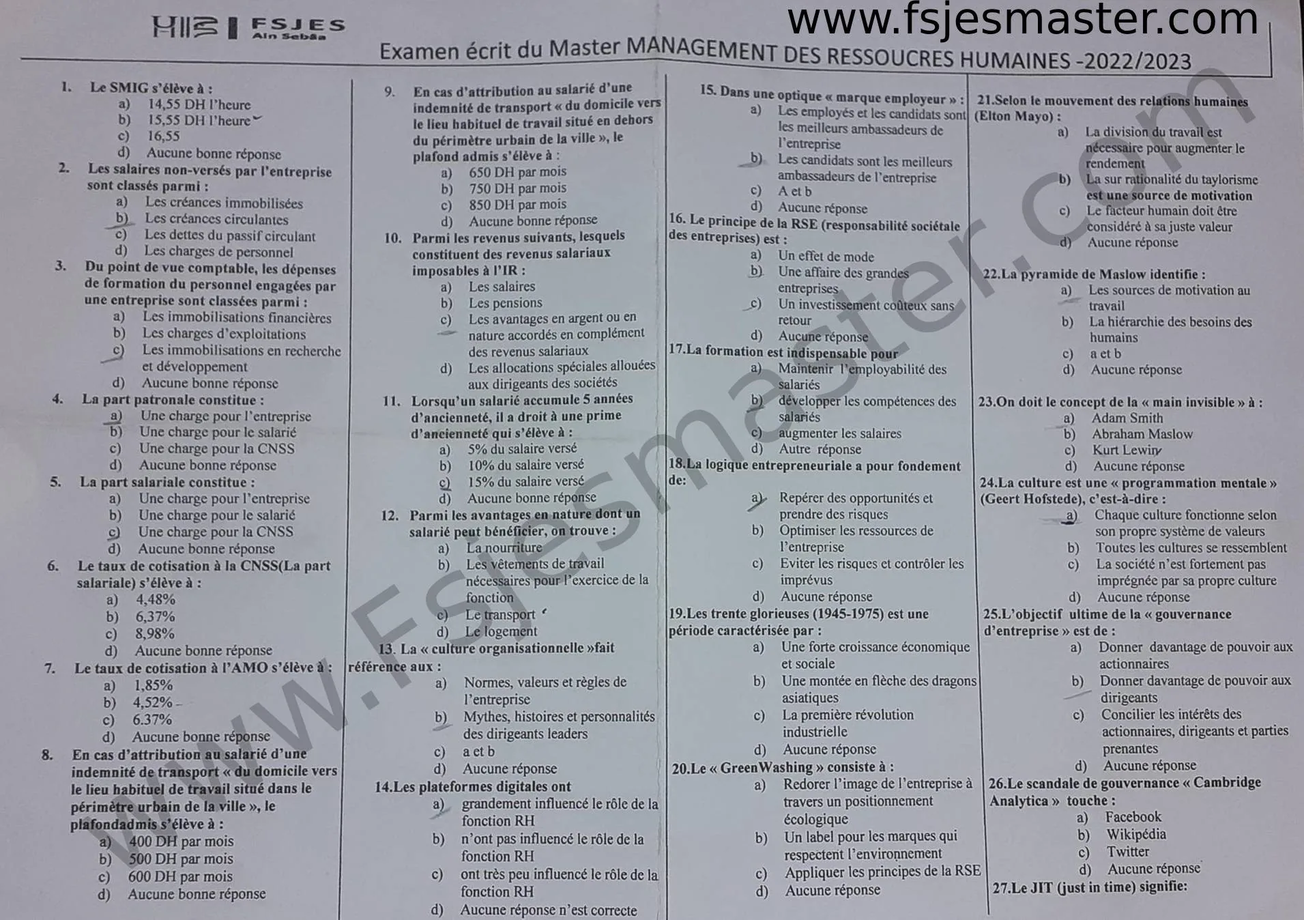
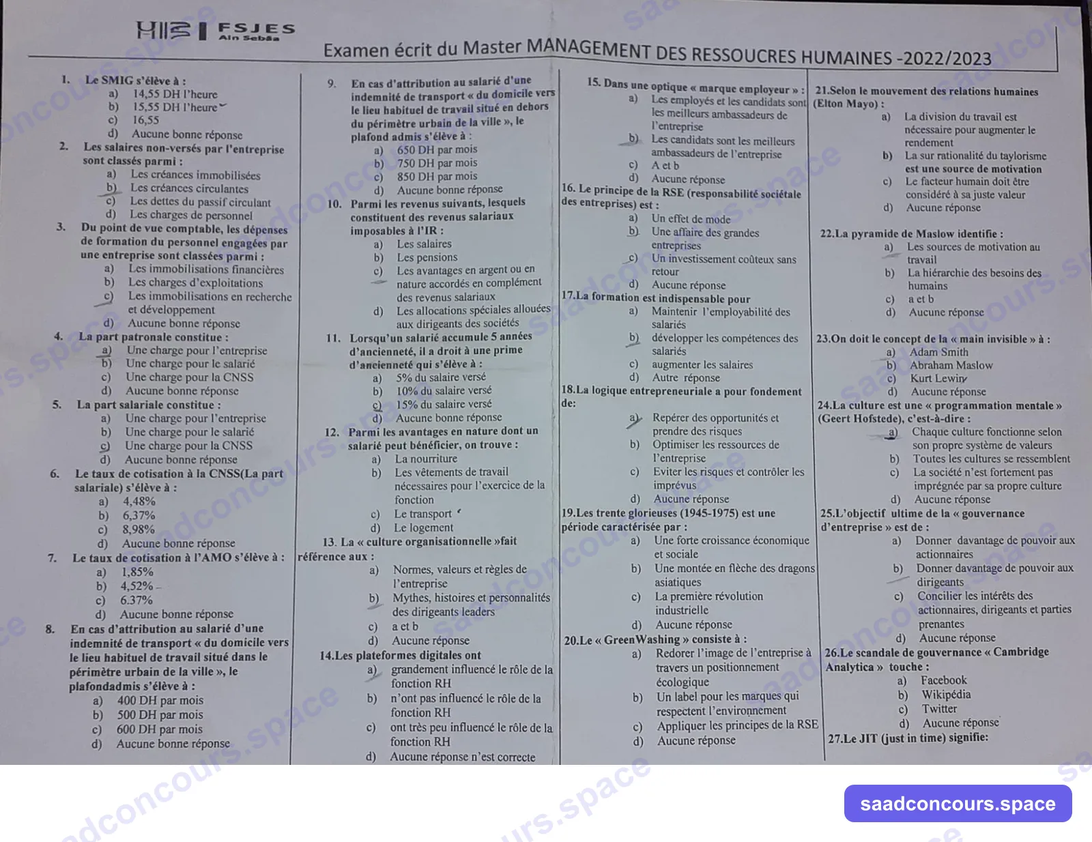
Complète le concours MRH 2022 de la FSJES Aïn Sebaâ : scans filigranés et corrigé
Le sujet fourni (examen écrit du Master Management des Ressources Humaines
2022/2023, QCM de 50 questions) était déjà en base sous
2022_Casablanca_FSJES_AinSebaa_MRH : pas de nouvelle fiche, la fiche existante
est complétée.

- Scans remplacés par les photos fournies, recadrées et filigranées (les
  anciens portaient le filigrane d'un autre site).
- Corrigé rédigé (le champ était vide dans le JSON, seul le miroir avait un
  brouillon) : paie marocaine 2022 (SMIG 15,55 DH, CNSS 4,48 %, AMO 4,52 %,
  plafonds 500/750 DH, prime d'ancienneté), GRH et management, médiane
  calculée, français. Deux lectures données pour Q7 (4,52 % ou 6,37 %).
- Énoncé relu : Q1 c) conforme au scan, doublon « Essayé » de la Q46 signalé.
- notions_cles réécrites, module Français ajouté.
- scripts/filigrane-scans.mjs : l'étiquette est posée sur une bande blanche
  ajoutée sous la feuille (elle masquait les options de la Q26), et
  --recadrer ne rogne plus le côté où la feuille sort du cadre (la Q14 d)
  était coupée). Recette mise à jour dans BANQUE_PROMPTS.md.

diff --git a/public/data/corriges/2022_Casablanca_FSJES_AinSebaa_MRH.md b/public/data/corriges/2022_Casablanca_FSJES_AinSebaa_MRH.md
@@ -1,103 +1,128 @@
-> Corrigé rédigé à partir du programme standard des modules (droit et gestion sociale, GRH, management, statistique descriptive, grammaire française) et d'un raisonnement vérifié — aucune source officielle disponible pour ce sujet. Les réponses cochées au crayon sur le scan par un candidat ne sont pas prises comme référence.
+> Corrigé indicatif rédigé par SaadConcours, pas une correction officielle de la FSJES Aïn Sebaâ. Les taux et plafonds sont ceux en vigueur à la rentrée 2022, date de l'épreuve. Les cases cochées sur les photos sont celles d'un candidat : plusieurs sont fausses (Q11, Q40, Q49, Q50…) et n'ont pas été suivies.
 
-### Questions
+## Méthode
 
-**1. b) 15,55 DH l'heure.** C'est le SMIG horaire du secteur non agricole au Maroc après la revalorisation appliquée en septembre 2022.
+Le sujet compte 50 questions en quatre blocs. Les questions 1 à 12 portent sur la paie et la gestion sociale au Maroc : SMIG, cotisations CNSS et AMO, indemnités de transport, IR, prime d'ancienneté. Les questions 13 à 37 couvrent la GRH, le management et la théorie des organisations. La question 38 est un calcul de statistique descriptive. Les questions 39 à 50 testent le français (grammaire, accords, pronoms relatifs).
 
-**2. c) Les dettes du passif circulant.** Un salaire dû mais non encore versé est une dette de l'entreprise envers son personnel, donc une dette à court terme.
+La feuille n'indique ni la durée, ni le barème, ni si plusieurs réponses sont admises. Plusieurs questions ont pourtant plus d'une proposition juste (Q10, Q12, Q17, Q35). Le corrigé les signale. **Si l'épreuve applique un barème négatif, laissez en blanc les questions où vous hésitez.**
 
-**3. b) Les charges d'exploitations.** Les dépenses de formation du personnel sont des charges de l'exercice au cours duquel elles sont engagées, et non des immobilisations.
+Beaucoup de questions de ce sujet reviennent d'une session à l'autre : la plupart des questions 13 à 29 figurent presque mot pour mot dans les tests MRH de 2018 et de 2023, et quelques-unes (culture organisationnelle, marque employeur, logique entrepreneuriale) encore en 2025. Ce sont des points sûrs pour qui travaille les annales.
 
-**4. a) Une charge pour l'entreprise.** La part patronale des cotisations sociales (CNSS, AMO...) est supportée par l'employeur, en plus du salaire brut.
+## Paie et gestion sociale (Q1 à Q12)
 
-**5. b) Une charge pour le salarié.** La part salariale est retenue directement sur le salaire brut du salarié (précompte).
+**Q1 — B (15,55 DH l'heure).** L'accord social du 30 avril 2022 a relevé le SMIG de 10 % en deux étapes de 5 %. La première s'applique au 1er septembre 2022 : le SMIG passe de 14,81 à **15,55 DH l'heure** dans l'industrie, le commerce et les professions libérales ($14{,}81 \times 1{,}05 \approx 15{,}55$). La seconde étape le porte à 16,29 DH en septembre 2023. Le chiffre de cette question change donc chaque année : vérifiez le décret en vigueur le jour de votre concours.
 
-**6. a) 4,48%.** C'est le taux global de la part salariale des « prestations sociales » CNSS (plafonné à 6 000 DH/mois) ; 8,98% est la part patronale correspondante.
+**Q2 — C.** Un salaire dû mais pas encore payé est une dette de l'entreprise envers son personnel. Le CGNC l'enregistre au crédit du compte 4432 « Rémunérations dues au personnel », dans les dettes du passif circulant. Une créance (A, B) est au contraire une somme que l'entreprise doit recevoir. Les charges de personnel (D) enregistrent la consommation, pas la dette.
 
-**7. c) 6,37%.** C'est le taux global de cotisation à l'AMO dans le secteur privé (part patronale + part salariale réunies) géré par la CNSS.
+**Q3 — B.** Les frais de formation sont une consommation de l'exercice : ce sont des charges d'exploitation. Ils ne remplissent pas les conditions d'une immobilisation en recherche et développement (C), qui suppose un projet identifié et des chances sérieuses de rentabilité. Ce ne sont pas non plus des immobilisations financières (A).
 
-**8. b) 500 DH par mois.** Plafond d'exonération fiscale de l'indemnité de transport domicile-travail à l'intérieur du périmètre urbain (Code Général des Impôts).
+**Q4 — A.** La part patronale des cotisations sociales est payée par l'employeur en plus du salaire brut. C'est une charge sociale de l'entreprise.
 
-**9. b) 750 DH par mois.** Plafond d'exonération pour un lieu de travail situé en dehors du périmètre urbain.
+**Q5 — B.** La part salariale est prélevée sur le salaire brut du salarié : c'est lui qui la supporte. L'entreprise ne fait que la retenir et la reverser à la CNSS. Pour la CNSS, c'est une recette, pas une charge (C).
 
-**10. a), b) et c).** Les salaires, les pensions et les avantages en argent/nature accordés en complément du salaire entrent tous dans la catégorie des revenus salariaux imposables à l'IR. À l'inverse, l'option d) (allocations spéciales destinées à couvrir des frais inhérents à la fonction) est en principe exonérée si elle est effectivement utilisée conformément à son objet.
+**Q6 — A (4,48 %).** Au titre des prestations sociales du régime général, la part salariale est de **4,48 %** et la part patronale de 8,98 %, sur un salaire plafonné à 6 000 DH par mois. La proposition C (8,98 %) est le piège : c'est le taux patronal.
 
-**11. b) 10% du salaire versé.** Barème légal de la prime d'ancienneté (Code du travail, art. 350) : 5% après 2 ans, 10% après 5 ans, 15% après 12 ans, 20% après 20 ans, 25% après 25 ans.
+**Q7 — B (4,52 %).** La cotisation AMO est de **4,52 %** du salaire brut, sans plafond, partagée à parts égales : 2,26 % salarié et 2,26 % employeur. L'employeur verse en plus une participation AMO de 1,85 %. La proposition C (6,37 %) additionne ces deux montants ($4{,}52 + 1{,}85 = 6{,}37$) : c'est le coût total AMO, pas le taux de cotisation. Certaines grilles de paie affichent pourtant « AMO 6,37 % » en regroupant les deux : si le correcteur raisonne en coût total, il attend C. Cochez B, le taux légal de cotisation, et laissez en blanc en cas de barème négatif si vous doutez.
 
-**12. a), c) et d).** La nourriture, le transport et le logement fournis par l'employeur sont des avantages en nature classiques. Les vêtements de travail obligatoires pour l'exercice de la fonction (b) sont un moyen de travail, pas un avantage en nature.
+**Q8 — B (500 DH par mois).** L'administration fiscale exonère d'IR l'indemnité de déplacement du domicile au lieu de travail dans la limite de **500 DH par mois** quand le lieu de travail est dans le périmètre urbain.
 
-**13. c) a et b.** La culture organisationnelle recouvre à la fois les normes/valeurs/règles formalisées et les mythes, histoires et personnalités qui circulent de manière informelle dans l'entreprise.
+**Q9 — B (750 DH par mois).** Même règle hors du périmètre urbain : le plafond d'exonération passe à **750 DH par mois**. Retenez la paire 500 / 750.
 
-**14. a) Grandement influencé le rôle de la fonction RH.** La digitalisation (SIRH, self-service RH, recrutement en ligne, IA) a profondément transformé les pratiques et le positionnement de la fonction RH.
+**Q10 — A, B, C et D.** L'article 56 du CGI range parmi les revenus salariaux imposables les traitements et salaires (A), les pensions (B), les avantages en argent ou en nature accordés en plus de ces revenus (C) et les allocations spéciales et autres rémunérations allouées aux dirigeants de sociétés (D). Les quatre propositions sont justes. Attention à D : ces allocations restent imposables, sauf la part qui rembourse des frais réellement engagés pour la fonction et justifiés (article 57 du CGI). Si une seule réponse est attendue, cochez A, le cas de base.
 
-**15. c) A et b.** Dans une logique de marque employeur, salariés et candidats sont tous deux considérés comme des ambassadeurs de la réputation de l'entreprise.
+**Q11 — B (10 %).** L'article 350 du Code du travail fixe la prime d'ancienneté à 5 % après 2 ans de service, **10 % après 5 ans**, 15 % après 12 ans, 20 % après 20 ans et 25 % après 25 ans. Le candidat a coché 15 % : c'est le taux de 12 ans.
 
-**16. d) Aucune réponse.** La RSE n'est ni un simple effet de mode, ni réservée aux grandes entreprises, ni un coût sans retour : c'est une démarche volontaire d'intégration des enjeux sociaux et environnementaux dans la stratégie, créatrice de valeur à moyen/long terme.
+**Q12 — A, C et D.** La nourriture, le transport et le logement fournis par l'employeur sont des avantages en nature, imposables à l'IR avec le salaire. Les vêtements de travail nécessaires à la fonction (B) sont l'intrus : ce sont des frais professionnels, que l'employeur prend en charge pour que le travail soit fait. Ils ne sont pas un avantage pour le salarié.
 
-**17. a) et b).** La formation vise à la fois à maintenir l'employabilité des salariés et à développer leurs compétences ; l'augmentation des salaires (c) n'est pas son objectif direct.
+## GRH, management et organisations (Q13 à Q37)
 
-**18. a) Repérer des opportunités et prendre des risques.** Définition classique de la logique entrepreneuriale (Say, Schumpeter, Stevenson) : détection d'opportunités et prise de risque calculée, à la différence de la logique managériale centrée sur l'optimisation des ressources existantes.
+**Q13 — C (a et b).** La culture organisationnelle comprend les normes, valeurs et règles de l'entreprise (A) et sa part symbolique : mythes, récits, figures fondatrices (B). C'est l'analyse d'Edgar Schein et de Maurice Thévenet.
 
-**19. a) Une forte croissance économique et sociale.** Expression de Jean Fourastié pour désigner la période 1945-1975 de croissance exceptionnelle dans les pays occidentaux.
+**Q14 — A.** Les plateformes digitales ont transformé la fonction RH : e-recrutement, SIRH, formation en ligne, marque employeur sur les réseaux sociaux.
 
-**20. a) Redorer l'image de l'entreprise à travers un positionnement écologique.** Le greenwashing consiste à se donner une image écologique trompeuse, sans réalité derrière le discours.
+**Q15 — C (A et b).** Dans une logique de marque employeur, salariés et candidats sont tous deux des ambassadeurs de l'entreprise : avis en ligne, réseaux sociaux, bouche-à-oreille. A inclut déjà B, d'où « A et b ». C'est la réponse retenue sur la même question en 2023 et 2025.
 
-**21. c) Le facteur humain doit être considéré à sa juste valeur.** Conclusion des expériences de Hawthorne (Elton Mayo) : la motivation et la performance dépendent des relations humaines et de la reconnaissance, pas seulement de l'organisation rationnelle du travail.
+**Q16 — D.** La RSE n'est ni un effet de mode (elle est encadrée par des normes comme l'ISO 26000 et, au Maroc, par le label RSE de la CGEM), ni réservée aux grandes entreprises, ni un coût sans retour : elle améliore l'image, la fidélisation et la gestion des risques.
 
-**22. c) A et b.** La pyramide de Maslow est à la fois une théorie de la motivation au travail et une hiérarchisation des besoins humains.
+**Q17 — A et B.** La formation développe les compétences des salariés (B), ce qui maintient leur employabilité (A). Elle n'entraîne pas automatiquement une hausse de salaire (C). Si une seule réponse est acceptée, cochez B : c'est l'objet même de la formation. La proposition D (« Autre réponse ») peut aussi viser la combinaison A et B : sans barème connu, c'est une question à risque.
 
-**23. a) Adam Smith.** Auteur du concept de la « main invisible » du marché (*Recherches sur la nature et les causes de la richesse des nations*, 1776).
+**Q18 — A.** La logique entrepreneuriale consiste à repérer des opportunités et à prendre des risques pour les saisir. B et C relèvent de la logique managériale, centrée sur l'optimisation et le contrôle.
 
-**24. a) Chaque culture fonctionne selon son propre système de valeurs.** C'est le sens donné par Geert Hofstede à la culture comme « programmation mentale collective » distinguant les groupes humains.
+**Q19 — A.** Les Trente Glorieuses (1945-1975, expression de Jean Fourastié) désignent la forte croissance économique et sociale des pays industrialisés après la guerre. La première révolution industrielle (C) date de la fin du XVIIIe siècle.
 
-**25. c) Concilier les intérêts des actionnaires, dirigeants et parties prenantes.** La gouvernance d'entreprise vise à arbitrer entre les intérêts parfois divergents des différentes parties prenantes (actionnaires, dirigeants, salariés, etc.).
+**Q20 — A.** Le greenwashing (ou « écoblanchiment ») consiste à se donner une image écologique trompeuse ou exagérée, sans démarche environnementale réelle. C'est l'inverse d'appliquer la RSE (C).
 
-**26. a) Facebook.** Le scandale Cambridge Analytica (2018) portait sur l'exploitation non autorisée des données de dizaines de millions d'utilisateurs Facebook à des fins de ciblage politique.
+**Q21 — C.** Les expériences d'Elton Mayo à la Western Electric (Hawthorne, 1924-1932) montrent que la productivité dépend aussi de l'attention portée aux personnes et du groupe. Le facteur humain doit être considéré à sa juste valeur. A et B résument au contraire la vision taylorienne.
 
-**27. a) La minimalisation des stocks et des en-cours de fabrication.** C'est la définition de base du Juste-à-Temps (zéro stock), issue du système de production Toyota.
+**Q22 — C (a et b).** La pyramide de Maslow hiérarchise les besoins humains (physiologiques, sécurité, appartenance, estime, accomplissement) et sert à expliquer la motivation au travail.
 
-**28. a) Sur lesquelles l'entreprise se base pour optimiser son avantage concurrentiel.** Le modèle des 5(+1) forces de Porter sert à analyser l'attractivité et la structure concurrentielle d'un secteur ; l'option b) est une affirmation absurde, donc la combinaison « a et b » proposée en c) est fausse.
+**Q23 — A.** La « main invisible » est un concept d'Adam Smith (*La Richesse des nations*, 1776) : la poursuite des intérêts individuels conduit le marché à un équilibre favorable à tous.
 
-**29. c) A et B.** La théorie des parties prenantes (Freeman) postule que l'entreprise s'inscrit dans un écosystème d'acteurs dont elle doit intégrer les intérêts dans ses décisions.
+**Q24 — A.** Pour Geert Hofstede, la culture est une « programmation mentale collective » qui distingue les membres d'un groupe de ceux d'un autre. Chaque culture a donc son propre système de valeurs.
 
-**30. c) Des sciences économiques et gestion.** La GRH est un champ appliqué qui mobilise à la fois les sciences de gestion (management, organisation) et les sciences économiques (marché du travail, coûts salariaux).
+**Q25 — C.** La gouvernance d'entreprise organise le pouvoir pour concilier les intérêts des actionnaires, des dirigeants et des autres parties prenantes. Au Maroc, le Code marocain de bonnes pratiques de gouvernance d'entreprise va dans ce sens.
 
-**31. a) Contextes organisationnels et contextes socio-économiques.** L'approche contextualiste de la GRH (Pichault & Nizet) souligne que les pratiques RH résultent de l'interaction permanente entre la dynamique interne de l'organisation et son environnement socio-économique.
+**Q26 — A.** Le scandale Cambridge Analytica (2018) porte sur l'exploitation sans consentement des données de dizaines de millions d'utilisateurs de Facebook à des fins de ciblage politique.
 
-**32. b) Les natures et la structure du capital.** La diversité des pratiques GRH s'explique notamment par la structure de propriété de l'entreprise (capital familial, actionnariat dispersé, filiale de groupe...), qui conditionne les logiques de gestion (logique financière, logique de métier, logique actionnariale).
+**Q27 — A.** Le juste-à-temps (JIT), né chez Toyota, vise à produire au moment de la demande, donc à réduire au minimum les stocks et les en-cours. Il raccourcit aussi les délais (C), mais c'est une conséquence : la définition attendue est A. Il ne vise pas à réduire les effectifs (B).
 
-**33. b) L'homme représente un coût qu'il faut minimiser.** Dans l'ancienne conception administrative de la « gestion du personnel » (par opposition à la GRH moderne fondée sur la logique de capital humain), le salarié est perçu avant tout comme un facteur de production dont il faut maîtriser le coût.
+**Q28 — A.** Les cinq forces de Porter (rivalité entre concurrents, nouveaux entrants, produits de substitution, pouvoir des clients, pouvoir des fournisseurs) sont les dimensions qu'analyse l'entreprise pour construire son avantage concurrentiel. Il ne s'agit pas de les « bannir » (B).
 
-**34. a) Part des valeurs, des perceptions, des croyances des hommes et des femmes au travail.** La GRH « comme culture » désigne précisément la dimension des valeurs et représentations partagées au sein de l'organisation, par opposition à la GRH comme administration ou comme technique d'analyse.
+**Q29 — C (A et B).** La théorie des parties prenantes (Freeman, 1984) invite l'entreprise à tenir compte des intérêts de tous ses interlocuteurs (B) et à se penser dans un écosystème (A).
 
-**35. a), b) et c).** Un tableau de bord social complet combine des indicateurs de performance sociale (absentéisme, turnover...), de gestion/pilotage social (masse salariale, effectifs) et de responsabilité sociale (diversité, sécurité, formation).
+**Q30 — A.** La GRH est une discipline des sciences de gestion, au même titre que le marketing, la finance ou la stratégie.
 
-**36. b) La gouvernance publique et la gouvernance privée.** C'est la distinction usuelle entre gouvernance des institutions publiques (État, collectivités) et gouvernance des organisations privées (entreprises).
+**Q31 — A.** La GRH se construit dans l'interaction permanente entre le contexte de l'organisation (taille, structure, stratégie) et le contexte socio-économique (marché du travail, droit social, syndicats). B et C ne retiennent qu'une moitié de cet environnement.
 
-**37. c) Associées, en pratique et en théorie.** Le management (processus de pilotage) et l'organisation (structure) sont indissociables : on ne peut manager sans structure, ni structurer sans finalité managériale.
+**Q32 — B.** Les pratiques de GRH varient fortement selon la nature et la structure du capital : une entreprise familiale, une filiale de multinationale, une entreprise publique ou une PME ne gèrent pas leur personnel de la même façon. Les « abus de pouvoir » (C) ne sont pas un critère d'analyse.
 
-**38. c) Mo = 3.** Avec un effectif total N = 20+60+80+40 = 200, la position médiane est le 100ᵉ/101ᵉ individu. Les effectifs cumulés sont 20 (Xi=1), 80 (Xi=2), 160 (Xi=3), 200 (Xi=4) : le 100ᵉ individu se situe dans la classe Xi = 3, qui est aussi la valeur la plus fréquente (Ni = 80) — médiane et mode coïncident ici à 3.
+**Q33 — B.** Dans la gestion du personnel traditionnelle (administration du personnel), l'homme est vu comme un coût qu'il faut minimiser. Le passage à la GRH le considère comme une ressource et une richesse immatérielle (A, C).
 
-**39. d) D'anticiper les actions.** La planification est fondamentalement un exercice d'anticipation : elle consiste à se projeter dans l'avenir pour préparer les décisions et actions à mener, avant même de les évaluer ou de les exécuter.
+**Q34 — A.** Vue comme une culture, la GRH part des valeurs, des perceptions et des croyances des hommes et des femmes au travail. B décrit plutôt la GRH comme technique (audit social, enquêtes d'opinion), C la GRH comme outil de performance.
 
-**40. b) Quelque.** « Quelque » est ici un adverbe invariable placé devant un adjectif suivi de « que + subjonctif » (tournure concessive) : « Quelque flous que soient ces témoignages... ».
+**Q35 — A, B et C.** Un tableau de bord social peut réunir des indicateurs de gestion sociale (effectifs, absentéisme, turn-over), de performance sociale (climat, satisfaction, formation) et de responsabilité sociale (égalité, santé et sécurité). Si une seule réponse est acceptée, cochez B, le cœur classique du tableau de bord social.
 
-**41. a) Quelque.** « Quelque temps » (un certain temps) : « quelque » est ici un adjectif indéfini invariable devant un nom singulier.
+**Q36 — B.** On distingue la gouvernance publique (État, collectivités, établissements publics) et la gouvernance privée, dont la gouvernance d'entreprise fait partie. A oppose deux notions qui se recouvrent ; C oppose un tout et sa partie. L'option e) est vide sur le sujet.
 
-**42. b) Les.** Pronom complément d'objet direct représentant des personnes déjà mentionnées : « Nous ne les verrons pas demain ».
+**Q37 — C.** Management et organisation sont étroitement associés : manager, c'est organiser (Fayol : prévoir, organiser, commander, coordonner, contrôler), et toute organisation suppose un management.
 
-**43. a) S'est.** Verbe pronominal « se lever » au passé composé, 3ᵉ personne du singulier : « Elle s'est levée ».
+## Statistique descriptive (Q38)
 
-**44. d) Pendant.** « Pendant toute son enfance » indique la durée complète pendant laquelle l'action (ne pas manger de viande) s'est déroulée.
+**Q38 — C (valeur 3).** L'effectif total est $N = 20 + 60 + 80 + 40 = 200$. Effectifs cumulés croissants : 20, 80, 160, 200.
 
-**45. b) Que.** Pronom relatif complément d'objet direct : « le livre que je lis ».
+| $x_i$ | $n_i$ | $N_i$ cumulé |
+|---|---|---|
+| 1 | 20 | 20 |
+| 2 | 60 | 80 |
+| 3 | 80 | 160 |
+| 4 | 40 | 200 |
 
-**46. Essayé (options b et d, identiques sur le scan).** Participe passé de « essayer » avec l'auxiliaire « avoir » : pas d'accord avec le COD « ces nouveaux logiciels » car il est placé après le verbe → « Ils ont essayé ces nouveaux logiciels ».
+La médiane partage l'effectif en deux : on cherche la valeur des 100e et 101e observations. Le cumul dépasse 100 pour la première fois à $x = 3$ (cumul 160). **Médiane = 3.**
 
-**47. d) Autant.** Comparatif d'égalité entre deux quantités : « autant de sucre que de farine ».
+Les propositions sont libellées « Mo », le symbole du mode, alors que la question demande la médiane. Ici la confusion est sans effet : le mode (valeur d'effectif maximal, 80) vaut aussi 3. La réponse est C dans les deux lectures.
 
-**48. d) Dont.** Le verbe « parler de » impose le pronom relatif « dont » : « la recrue dont je vous ai parlé ».
+## Français (Q39 à Q50)
 
-**49. d) Où.** Pronom relatif de temps : « le jour où il est arrivé ».
+**Q39 — A.** Planifier, c'est préparer les actions à mener : fixer des objectifs, choisir les moyens et un calendrier. « Anticiper » (D) est proche, mais on anticipe des événements, on prépare des actions. C'est la question la plus ambiguë du sujet : à laisser en blanc si le barème est négatif.
 
-**50. c) Y.** Pronom adverbial remplaçant un complément de lieu introduit par « à » : « nous nous y rendons » (= à Marrakech).
+**Q40 — B (Quelque).** Devant un adjectif suivi de « que » + subjonctif, « quelque » est un adverbe qui signifie « si » : il est invariable. « Quelque flous que soient ces témoignages » = « si flous que soient… ». On écrirait « Quels que soient ces témoignages » seulement si « que » suivait directement, sans adjectif. Le candidat a coché A : c'est le piège.
+
+**Q41 — A (Quelque).** « Depuis quelque temps » : « quelque » est ici un déterminant qui signifie « un certain ». Il s'accorde avec le nom au singulier « temps ».
+
+**Q42 — B (Les).** « Nous ne les verrons pas » : le pronom complément d'objet direct qui remplace « ils » (des personnes, au pluriel) est « les ». « Leur » est un COI (« nous leur parlerons »), « leurs » un déterminant possessif.
+
+**Q43 — A (S'est).** « Elle s'est levée » : verbe pronominal « se lever » au passé composé, avec l'auxiliaire être. Le participe s'accorde avec le sujet féminin.
+
+**Q44 — D (Pendant).** « Pendant toute son enfance » exprime une durée achevée. « Depuis » marque une durée qui dure encore, ce qui ne colle pas avec une enfance terminée.
+
+**Q45 — B (Que).** « Le livre que je lis » : « que » est COD du verbe « lire », le sujet étant « je ».
+
+**Q46 — B (Essayé).** « Ils ont essayé ces nouveaux logiciels » : avec l'auxiliaire avoir, le participe passé s'accorde avec le COD seulement si celui-ci est placé avant le verbe. Ici le COD « ces nouveaux logiciels » est après : pas d'accord. Le sujet imprime « Essayé » deux fois (B et D) : les deux sont justes. Cochez B.
+
+**Q47 — D (Autant).** « Autant de sucre que de farine » : « autant de… que de… » exprime l'égalité de quantité. « Aussi » se place devant un adjectif ou un adverbe (« aussi sucré que »).
+
+**Q48 — D (Dont).** On parle **de** quelqu'un : le relatif qui remplace un complément introduit par « de » est « dont ». « Voici la recrue dont je vous ai parlé. »
+
+**Q49 — D (Où).** Après un nom de temps (le jour, l'année, le moment), le relatif est « où » : « le jour où il est arrivé ». « Quand » (A, coché par le candidat) n'est pas un pronom relatif.
+
+**Q50 — C (Y).** « Nous nous y rendons » : « y » remplace un complément de lieu introduit par « à » (« à Marrakech »). « En » (A, coché par le candidat) remplacerait un complément introduit par « de » (« nous en revenons »).

diff --git a/BANQUE_PROMPTS.md b/BANQUE_PROMPTS.md
@@ -207,7 +207,10 @@ Règles des champs :
 - Convertir **et filigraner** en une étape (depuis le 2026-10-04, à ma demande) :
   `node scripts/filigrane-scans.mjs <photo> public/images/<ville>/<id>/<id>_p1.webp [<photo2> …_p2.webp]`
   (webp, largeur max 1600 px, qualité 80, « saadconcours.space » en diagonale discrète + étiquette
-  en bas à droite). Toujours partir de la photo d'origine, jamais d'un webp déjà filigrané.
+  en bas à droite, posée sur une bande blanche ajoutée sous la feuille pour ne jamais masquer le
+  sujet — précédent : MRH Aïn Sebaâ 2022, options de la Q26 cachées). Toujours partir de la photo
+  d'origine, jamais d'un webp déjà filigrané. `--recadrer` ne rogne pas le côté où la feuille sort
+  déjà du cadre (le texte y touche le bord).
   Photo d'une feuille posée sur une table ou prise de travers : ajouter `--rotation=90` (ou 180,
   270, sens horaire) et `--recadrer` (ne garde que la feuille). Vérifier le résultat sur un aperçu :
   une colonne coupée = feuille trop ombrée, ajuster le seuil « papier » du script
@@ -281,6 +284,11 @@ sujet (année, faculté), les déduire de l'en-tête ; à défaut, **demander**.
   transcrire quand même, `images: []`, et le signaler dans `notions_cles` et le compte rendu
   (précédent : AIF Aïn Chock 2025, questionnaires B et C). Pour publier les scans, me demander
   de déposer les fichiers (ex. dans `C:\Users\saad\Downloads`) puis les filigraner.
+- **Sujet déjà en base** (même faculté, master, année, mêmes questions) : ne pas créer de doublon.
+  Compléter la fiche existante : remplacer ses scans par les photos fournies (filigranées, recadrées ;
+  surtout si les anciens portent le filigrane d'un autre site), relire l'énoncé, rédiger le corrigé
+  s'il manque. Vérifier aussi le miroir `corriges/<id>.md` : il peut contenir un brouillon absent
+  du JSON (précédent : MRH Aïn Sebaâ 2022).
 - Faculté absente de l'en-tête : la déduire des questions reprises d'une session déjà en base
   (précédent : MRH Aïn Sebaâ 2025, Q41 à Q50 identiques à 2018 et 2023) ou du master déjà rattaché
   (AIF → Aïn Chock), et le dire dans le bandeau du corrigé.

diff --git a/public/data/extraits/2022_Casablanca_FSJES_AinSebaa_MRH.md b/public/data/extraits/2022_Casablanca_FSJES_AinSebaa_MRH.md
@@ -1,15 +1,15 @@
-**Université Hassan II de Casablanca — Faculté des Sciences Juridiques, Économiques et Sociales — Aïn Sebâa**
+**Université Hassan II de Casablanca — Faculté des Sciences Juridiques, Économiques et Sociales — Aïn Sebaâ**
 
 **Examen écrit du Master Management des Ressources Humaines — Année universitaire 2022/2023**
 
-NB : les cases cochées au crayon sur le scan correspondent aux réponses d'un candidat et non à un corrigé officiel ; elles ne sont pas reprises ici.
+*QCM de 50 questions. Les cases cochées au crayon sur les photos sont les réponses d'un candidat, pas un corrigé officiel : elles ne sont pas reprises ici.*
 
 ### Questions
 
 **1. Le SMIG s'élève à :**
 a) 14,55 DH l'heure
 b) 15,55 DH l'heure
-c) 16,55 DH l'heure
+c) 16,55
 d) Aucune bonne réponse
 
 **2. Les salaires non-versés par l'entreprise sont classés parmi :**
@@ -289,7 +289,7 @@ d) Lequel
 a) Essayés
 b) Essayé
 c) Essayait
-d) Essayé
+d) Essayé *(la même proposition est imprimée deux fois sur le sujet)*
 
 **47. Pour cette recette, il faut mettre ….. de sucre que de farine.**
 a) Aussi
@@ -314,3 +314,4 @@ a) En
 b) Où
 c) Y
 d) Est
+
